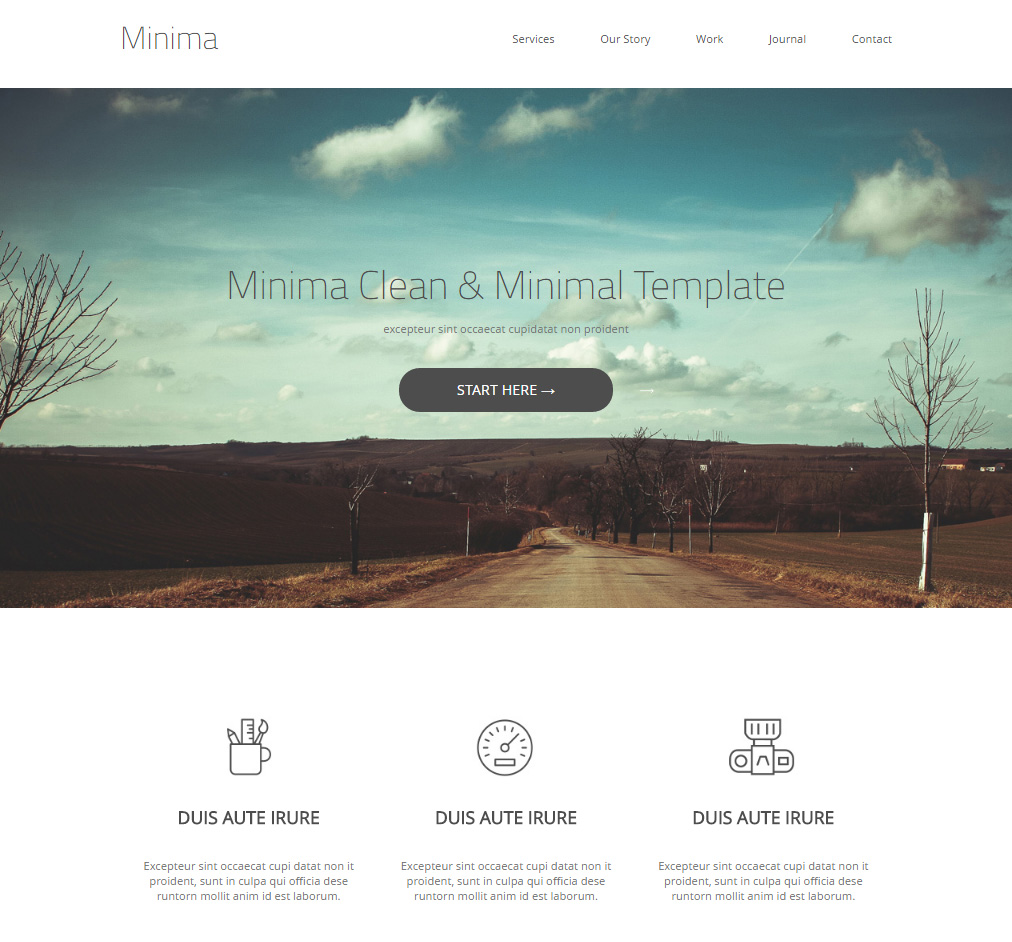
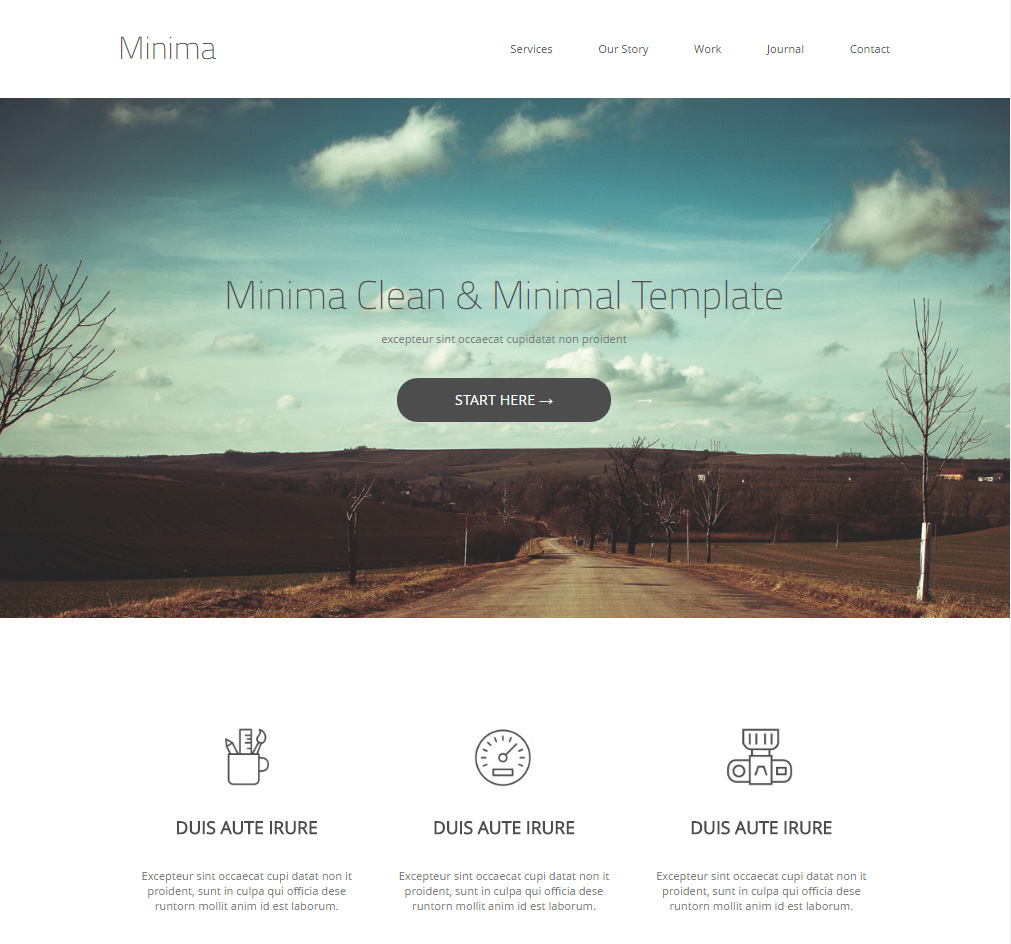
changed proprties for main picture

diff --git a/index.html b/index.html
@@ -53,22 +53,22 @@
 					my portfolio
 				</div>
 				<div class="row works">
-					<div class="col-md-4 item">
+					<div class="col-sm-6 col-md-4 item">
 						<a href="https://igor-melnyk.github.io/minima/"><img src="img/pic/minima.jpg"></a>
 					</div>
-					<div class="col-md-4 item">
+					<div class="col-sm-6 col-md-4 item">
 						<a href="https://igor-melnyk.github.io/gusto/"><img src="img/pic/gusto.jpg"></a>
 					</div>
-					<div class="col-md-4 item">
+					<div class="col-sm-6 col-md-4 item">
 						<a href="https://igor-melnyk.github.io/brig/"><img src="img/pic/brig.jpg"></a>
 					</div>
-					<div class="col-md-4 item">
+					<div class="col-sm-6 col-md-4 item">
 						<a href="https://igor-melnyk.github.io/brig/"><img src="img/pic/quanto.jpg"></a>
 					</div>
-					<div class="col-md-4 item">
+					<div class="col-sm-6 col-md-4 item">
 						<a href="https://igor-melnyk.github.io/brig/"><img src="img/pic/quanto.jpg"></a>
 					</div>
-					<div class="col-md-4 item">
+					<div class="col-sm-6 col-md-4 item">
 						<a href="https://igor-melnyk.github.io/minima/"><img src="img/pic/minima.jpg"></a>
 					</div>
 				</div>

diff --git a/css/main.css b/css/main.css
@@ -55,7 +55,7 @@ header .bottom-header {
         color: #00bac6; }
 
 .top-picture {
-  background: url(../img/pic/banner2.gif);
+  background: url(../img/pic/banner2.gif) no-repeat center;
   background-size: cover;
   height: 453px; }
 
@@ -80,13 +80,14 @@ header .bottom-header {
         display: inline-block;
         overflow: hidden;
         transition: transform, 0.3s;
-        max-height: 320px; }
+        max-width: 360px;
+        max-height: 300px; }
       .portfolio .works .item a:hover {
         transform: scale(1.1); }
 
 footer {
   height: 300px;
-  background: url(../img/footer-bg2.jpg);
+  background: url(../img/footer-bg3.jpg);
   background-size: cover; }
 
 /*# sourceMappingURL=main.css.map */

diff --git a/scss/main.scss b/scss/main.scss
@@ -67,7 +67,7 @@ header {
 	}
 }
 .top-picture {
-	background: url(../img/pic/banner2.gif);
+	background: url(../img/pic/banner2.gif) no-repeat center;
 	background-size: cover;
 	height: 453px;
 }
@@ -100,7 +100,8 @@ header {
 				display: inline-block;
 				overflow: hidden;
 				transition: transform, 0.3s;
-				max-height: 320px;
+				max-width: 360px;
+				max-height: 300px;
 			}
 			a:hover {
 				transform: scale(1.1);
@@ -111,6 +112,6 @@ header {
 }
 footer {
 	height: 300px;
-	background: url(../img/footer-bg2.jpg);
+	background: url(../img/footer-bg3.jpg);
 	background-size: cover;
 }
